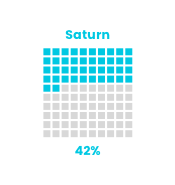
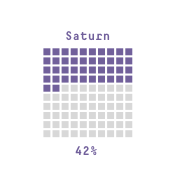
One less template

Changed region(s): [[0.2286, 0.2432, 0.7714, 0.5135], [0.3714, 0.1622, 0.6286, 0.2162], [0.4286, 0.7838, 0.5714, 0.8378]]

diff --git a/styles/bot/bot.css b/styles/bot/bot.css
@@ -5,52 +5,44 @@
   src: url("../../assets/fonts/SourceSansPro/SourceSansPro-Regular.woff") format("woff"), url("../../assets/fonts/SourceSansPro/SourceSansPro-Regular.ttf") format("truetype");
   font-weight: 400;
   font-style: normal; }
-
 @font-face {
   font-family: 'SourceSansProBold';
   src: url("../../assets/fonts/SourceSansPro/SourceSansPro-Bold.woff") format("woff"), url("../../assets/fonts/SourceSansPro/SourceSansPro-Bold.ttf") format("truetype");
   font-weight: 500;
   font-style: normal; }
-
 @font-face {
   font-family: 'DecimaMonoPro';
   src: url("../../assets/fonts/DecimaMonoPro/DecimaMonoPro.woff") format("woff"), url("../../assets/fonts/DecimaMonoPro/DecimaMonoPro.ttf") format("truetype");
   font-weight: normal;
   font-style: normal; }
-
 @font-face {
   font-family: 'DecimaMonoProLt';
   src: url("../../assets/fonts/DecimaMonoPro/DecimaMonoProLt.woff") format("woff"), url("../../assets/fonts/DecimaMonoPro/DecimaMonoProLt.ttf") format("truetype");
   font-weight: normal;
   font-style: normal; }
-
 @font-face {
   font-family: 'DecimaMonoProBold';
   src: url("../../assets/fonts/DecimaMonoPro/DecimaMonoPro-Bold.woff") format("woff"), url("../../assets/fonts/DecimaMonoPro/DecimaMonoPro-Bold.ttf") format("truetype");
   font-weight: bold;
   font-style: normal; }
-
 @font-face {
   font-family: 'InterfaceRegular';
   src: url("../../assets/fonts/Interface/Interface-Regular.eot");
   src: url("../../assets/fonts/Interface/Interface-Regular.eot?#iefix") format("embedded-opentype"), url("../../assets/fonts/Interface/Interface-Regular.woff") format("woff"), url("../../assets/fonts/Interface/Interface-Regular.ttf") format("truetype");
   font-weight: normal;
   font-style: normal; }
-
 @font-face {
   font-family: 'InterfaceRegularItalic';
   src: url("../../assets/fonts/Interface/Interface-RegularItalic.eot");
   src: url("../../assets/fonts/Interface/Interface-RegularItalic.eot?#iefix") format("embedded-opentype"), url("../../assets/fonts/Interface/Interface-RegularItalic.woff") format("woff"), url("../../assets/fonts/Interface/Interface-RegularItalic.ttf") format("truetype");
   font-weight: normal;
   font-style: italic; }
-
 @font-face {
   font-family: 'InterfaceRegularBold';
   src: url("../../assets/fonts/Interface/Interface-Bold.eot");
   src: url("../../assets/fonts/Interface/Interface-Bold.eot?#iefix") format("embedded-opentype"), url("../../assets/fonts/Interface/Interface-Bold.woff") format("woff"), url("../../assets/fonts/Interface/Interface-Bold.ttf") format("truetype");
   font-weight: bold;
   font-style: normal; }
-
 /* --- FONTS --- */
 /* Font families*/
 /* Font sizes*/
@@ -74,52 +66,44 @@
   src: url("../../assets/fonts/SourceSansPro/SourceSansPro-Regular.woff") format("woff"), url("../../assets/fonts/SourceSansPro/SourceSansPro-Regular.ttf") format("truetype");
   font-weight: 400;
   font-style: normal; }
-
 @font-face {
   font-family: 'SourceSansProBold';
   src: url("../../assets/fonts/SourceSansPro/SourceSansPro-Bold.woff") format("woff"), url("../../assets/fonts/SourceSansPro/SourceSansPro-Bold.ttf") format("truetype");
   font-weight: 500;
   font-style: normal; }
-
 @font-face {
   font-family: 'DecimaMonoPro';
   src: url("../../assets/fonts/DecimaMonoPro/DecimaMonoPro.woff") format("woff"), url("../../assets/fonts/DecimaMonoPro/DecimaMonoPro.ttf") format("truetype");
   font-weight: normal;
   font-style: normal; }
-
 @font-face {
   font-family: 'DecimaMonoProLt';
   src: url("../../assets/fonts/DecimaMonoPro/DecimaMonoProLt.woff") format("woff"), url("../../assets/fonts/DecimaMonoPro/DecimaMonoProLt.ttf") format("truetype");
   font-weight: normal;
   font-style: normal; }
-
 @font-face {
   font-family: 'DecimaMonoProBold';
   src: url("../../assets/fonts/DecimaMonoPro/DecimaMonoPro-Bold.woff") format("woff"), url("../../assets/fonts/DecimaMonoPro/DecimaMonoPro-Bold.ttf") format("truetype");
   font-weight: bold;
   font-style: normal; }
-
 @font-face {
   font-family: 'InterfaceRegular';
   src: url("../../assets/fonts/Interface/Interface-Regular.eot");
   src: url("../../assets/fonts/Interface/Interface-Regular.eot?#iefix") format("embedded-opentype"), url("../../assets/fonts/Interface/Interface-Regular.woff") format("woff"), url("../../assets/fonts/Interface/Interface-Regular.ttf") format("truetype");
   font-weight: normal;
   font-style: normal; }
-
 @font-face {
   font-family: 'InterfaceRegularItalic';
   src: url("../../assets/fonts/Interface/Interface-RegularItalic.eot");
   src: url("../../assets/fonts/Interface/Interface-RegularItalic.eot?#iefix") format("embedded-opentype"), url("../../assets/fonts/Interface/Interface-RegularItalic.woff") format("woff"), url("../../assets/fonts/Interface/Interface-RegularItalic.ttf") format("truetype");
   font-weight: normal;
   font-style: italic; }
-
 @font-face {
   font-family: 'InterfaceRegularBold';
   src: url("../../assets/fonts/Interface/Interface-Bold.eot");
   src: url("../../assets/fonts/Interface/Interface-Bold.eot?#iefix") format("embedded-opentype"), url("../../assets/fonts/Interface/Interface-Bold.woff") format("woff"), url("../../assets/fonts/Interface/Interface-Bold.ttf") format("truetype");
   font-weight: bold;
   font-style: normal; }
-
 *:focus {
   outline: none;
   inline: none; }
@@ -251,7 +235,6 @@
 .cb-waiting {
   width: 70px;
   padding: 5px; }
-
 @keyframes wave {
   0%, 60%, 100% {
     transform: initial; }
@@ -326,7 +309,8 @@
       flex: 4;
       color: #71609b;
       font-size: 1.2em;
-      background-color: #FBFBFB; }
+      background-color: #eeeeee;
+      padding-top: 12px; }
       .cb-bubble-input .title input::placeholder {
         color: #75FABF;
         font-size: 1.2em; }
@@ -342,7 +326,7 @@
       flex: 4;
       color: #9a9a9a;
       font-size: 1em;
-      background-color: #FBFBFB; }
+      background-color: #eeeeee; }
       .cb-bubble-input .subtitle input::placeholder {
         color: #9a9a9a;
         font-size: 1em; }
@@ -355,7 +339,7 @@
   .cb-bubble-input .number {
     position: relative;
     text-align: left;
-    background-color: #FBFBFB;
+    background-color: #eeeeee;
     font-size: 3em;
     font-family: "DecimaMonoProBold", monospace;
     color: #222222;
@@ -384,7 +368,7 @@
     .cb-bubble-table table input {
       position: relative;
       text-align: right;
-      background-color: #FBFBFB;
+      background-color: #eeeeee;
       font-size: 1em;
       font-family: "DecimaMonoProBold", monospace;
       color: #222222;
@@ -475,3 +459,5 @@
       transition: all 0.5s cubic-bezier(0.215, 0.61, 0.355, 1); }
       .cb-download-wrapper .download-thumb img:hover {
         background-color: #75FABF; }
+
+/*# sourceMappingURL=bot.css.map */

diff --git a/index.html b/index.html
@@ -329,8 +329,8 @@
         function selectTheme(theme) {
           switch (theme) {
             case "saturn":
-              dataTemp.style.color.main = '#00C8E2';
-              dataTemp.style.font = 'Poppins';
+              dataTemp.style.color.main = 'rgba(113, 96, 155, 1)';
+              dataTemp.style.font = 'DecimaMonoProBold';
               break;
             case "mars":
               dataTemp.style.color.main = '#FE9592';
@@ -542,7 +542,7 @@
       cb.addBubble({ type: 'text', value: 'Want to visualize some data for your project?', class: 'bot', delay: 1000 }, function () {
         setTimeout(function () {
           cb.addBubble({ type: 'select', value: [{ label: 'Sounds great! Let’s go!' }], class: 'human' }, onEntry);
-        },500)
+        }, 500)
       });
 
 
@@ -578,7 +578,7 @@
 
       function onEntry() {
         d3.select('#gui-1-overlay').style('left', '0');
-        cb.addBubble({ type: 'text', value: 'Ok then, choose your chart type!', class: 'bot', delay:1200 });
+        cb.addBubble({ type: 'text', value: 'Ok then, choose your chart type!', class: 'bot', delay: 1200 });
       }
 
       function onDataSubmitted() {
@@ -599,8 +599,8 @@
         var tile = d3.selectAll('.thumb');
         tile.on('click', function (d) {
           // console.log('You have chosen the ' + d + ' visualization!');
-          cb.addBubble({ type: 'text', value: 'I want to make a ' + d + ' chart ', class: 'human', emoji: 'smile' }, function(){
-            cb.addBubble({type: 'text', value: "Good choice! Let's enter your data ", class: 'bot', emoji: 'write',delay:1200}, function(){
+          cb.addBubble({ type: 'text', value: 'I want to make a ' + d + ' chart ', class: 'human', emoji: 'smile' }, function () {
+            cb.addBubble({ type: 'text', value: "Good choice! Let's enter your data ", class: 'bot', emoji: 'write', delay: 1200 }, function () {
 
               createViz(d);
 
@@ -609,12 +609,12 @@
                 cb.addBubble({ type: 'input', rows: [1, 2, 3], columns: [1, 2, 3], selectables: ['Bicycle', 'Car', 'House', 'Person'], class: 'human' });
 
                 setTimeout(function () {
-                
+
                   cb.addBubble({ type: 'select', value: [{ label: 'I am done entering my data!' }], class: 'human' }, onDataSubmitted);
 
-                },800)
+                }, 800)
 
-              },1200)
+              }, 1200)
             });
           })
         });

diff --git a/styles/variables/variables.scss b/styles/variables/variables.scss
@@ -8,9 +8,9 @@ $font-family-mono: "DecimaMonoProBold", monospace;
 $font-family-sansDefault: "InterfaceRegular", "Helvetica", "Arial", sans-serif;
 $font-family-sansItalic: "InterfaceRegularItalic", "Helvetica", "Arial", sans-serif;
 $font-family-bold: "InterfaceRegularBold";
-$font-family-poppins: 'Poppins', sans-serif;
-$font-family-merriweather: 'Merriweather', serif;
-$font-family-robotoMono: 'Roboto Mono', monospace;
+$font-family-poppins: "Poppins", sans-serif;
+$font-family-merriweather: "Merriweather", serif;
+$font-family-robotoMono: "Roboto Mono", monospace;
 
 /* Font sizes*/
 $font-size-default: 16px;
@@ -33,7 +33,7 @@ $svift-delete: #FF5858;
 $bg-light-grey: #F4F4F4;
 $white: #fff;
 $black: #000;
-$table-background: #FBFBFB;
+$table-background: rgb(238, 238, 238);
 
 /* Bot Colors */
 $bot-bubble: #E6E6E6;

diff --git a/styles/bot/bot.scss b/styles/bot/bot.scss
@@ -254,6 +254,7 @@
     padding: 20px;
     border-radius: 4px;
     margin-top: 20px;
+
     // border: 3px solid #72f5bf;
 
     input {
@@ -283,6 +284,7 @@
             color: $svift-primary;
             font-size: 1.2em;
             background-color: $table-background;
+            padding-top: 12px;
 
             &::placeholder {
                 color: $svift-human;
